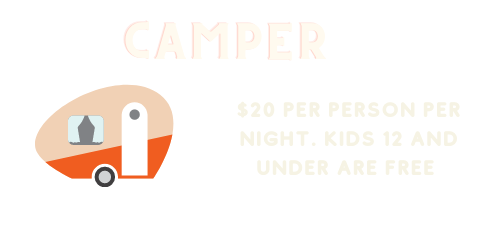
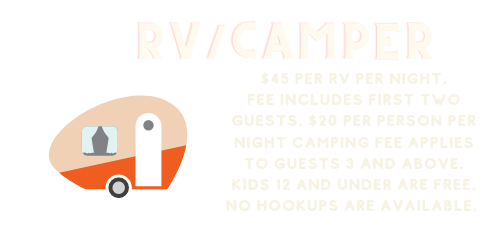
change camper image, increase max scale for zooming

diff --git a/src/views/Accommodations.vue b/src/views/Accommodations.vue
@@ -68,11 +68,11 @@ export default {
   }
 }
 .rv {
-  background: transparent url(../assets/RV.png) 50% no-repeat;
+  background: transparent url(../assets/camper.png) 50% no-repeat;
   padding: 150px 250px;
   background-size: 100% 100%;
     @media (max-width: 600px) {
-      background: transparent url(../assets/RV.png) 50% no-repeat;
+      background: transparent url(../assets/camper.png) 50% no-repeat;
       background-size: 330px 200px;
       margin: auto;
       margin-left: 40px;

diff --git a/public/index.html b/public/index.html
@@ -3,7 +3,7 @@
   <head>
     <meta charset="utf-8">
     <meta http-equiv="X-UA-Compatible" content="IE=edge">
-    <meta name="viewport" content="width=device-width,initial-scale=1,maximum-scale=1">
+    <meta name="viewport" content="width=device-width,initial-scale=1,maximum-scale=1.5">
     <link rel="icon" href="<%= BASE_URL %>tree-favicon.png">
     <title>Haley & Luke</title>
   </head>
